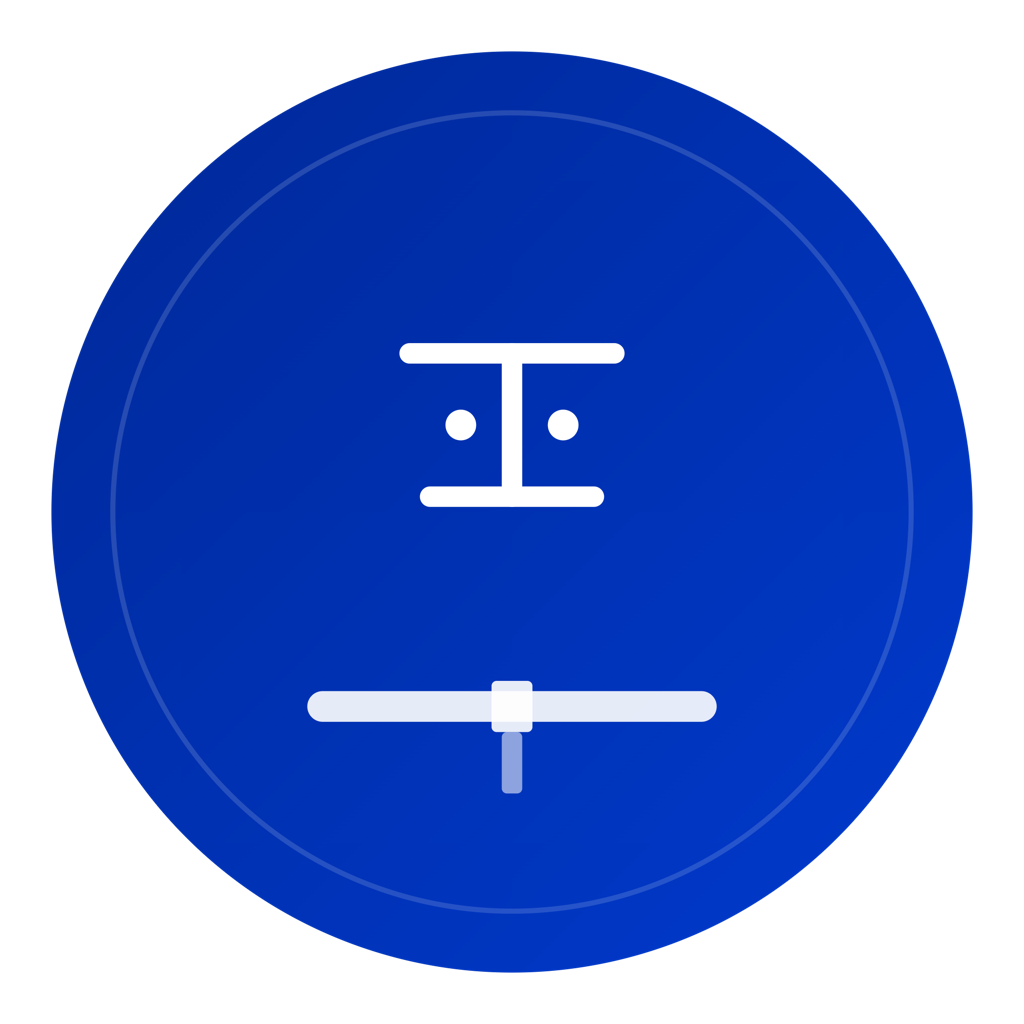
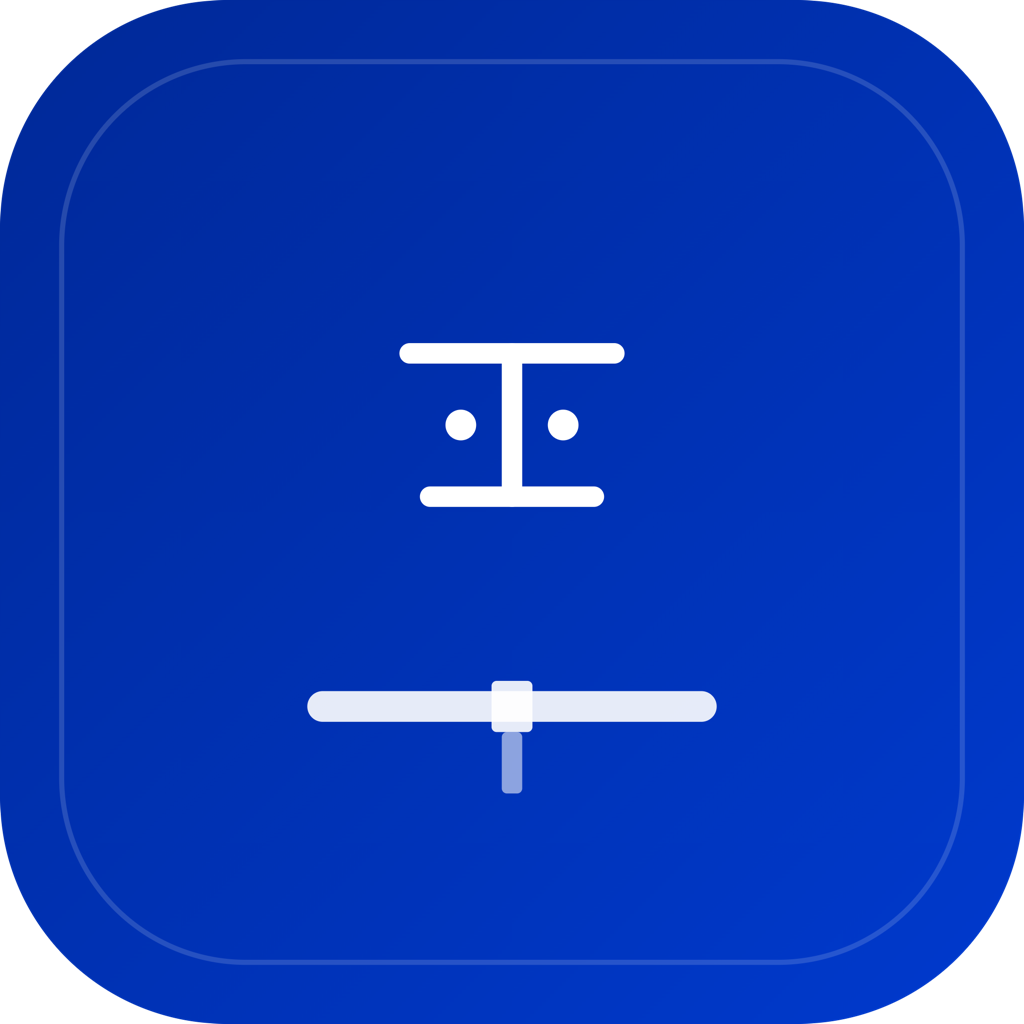
chore: アイコン・スプラッシュ・app.config設定
- icon.png / splash.png を追加
- app名をTOPIK道場、バージョンを1.0.0に設定
- ローディング画面をcobalt背景に変更

diff --git a/app/_layout.tsx b/app/_layout.tsx
@@ -39,9 +39,7 @@ export default function RootLayout() {
 
   if (!migrationSuccess || !seedReady || !fontsLoaded) {
     return (
-      <View className="flex-1 items-center justify-center">
-        <Text>Loading...</Text>
-      </View>
+      <View style={{ flex: 1, alignItems: 'center', justifyContent: 'center', backgroundColor: '#002897' }} />
     );
   }
 
